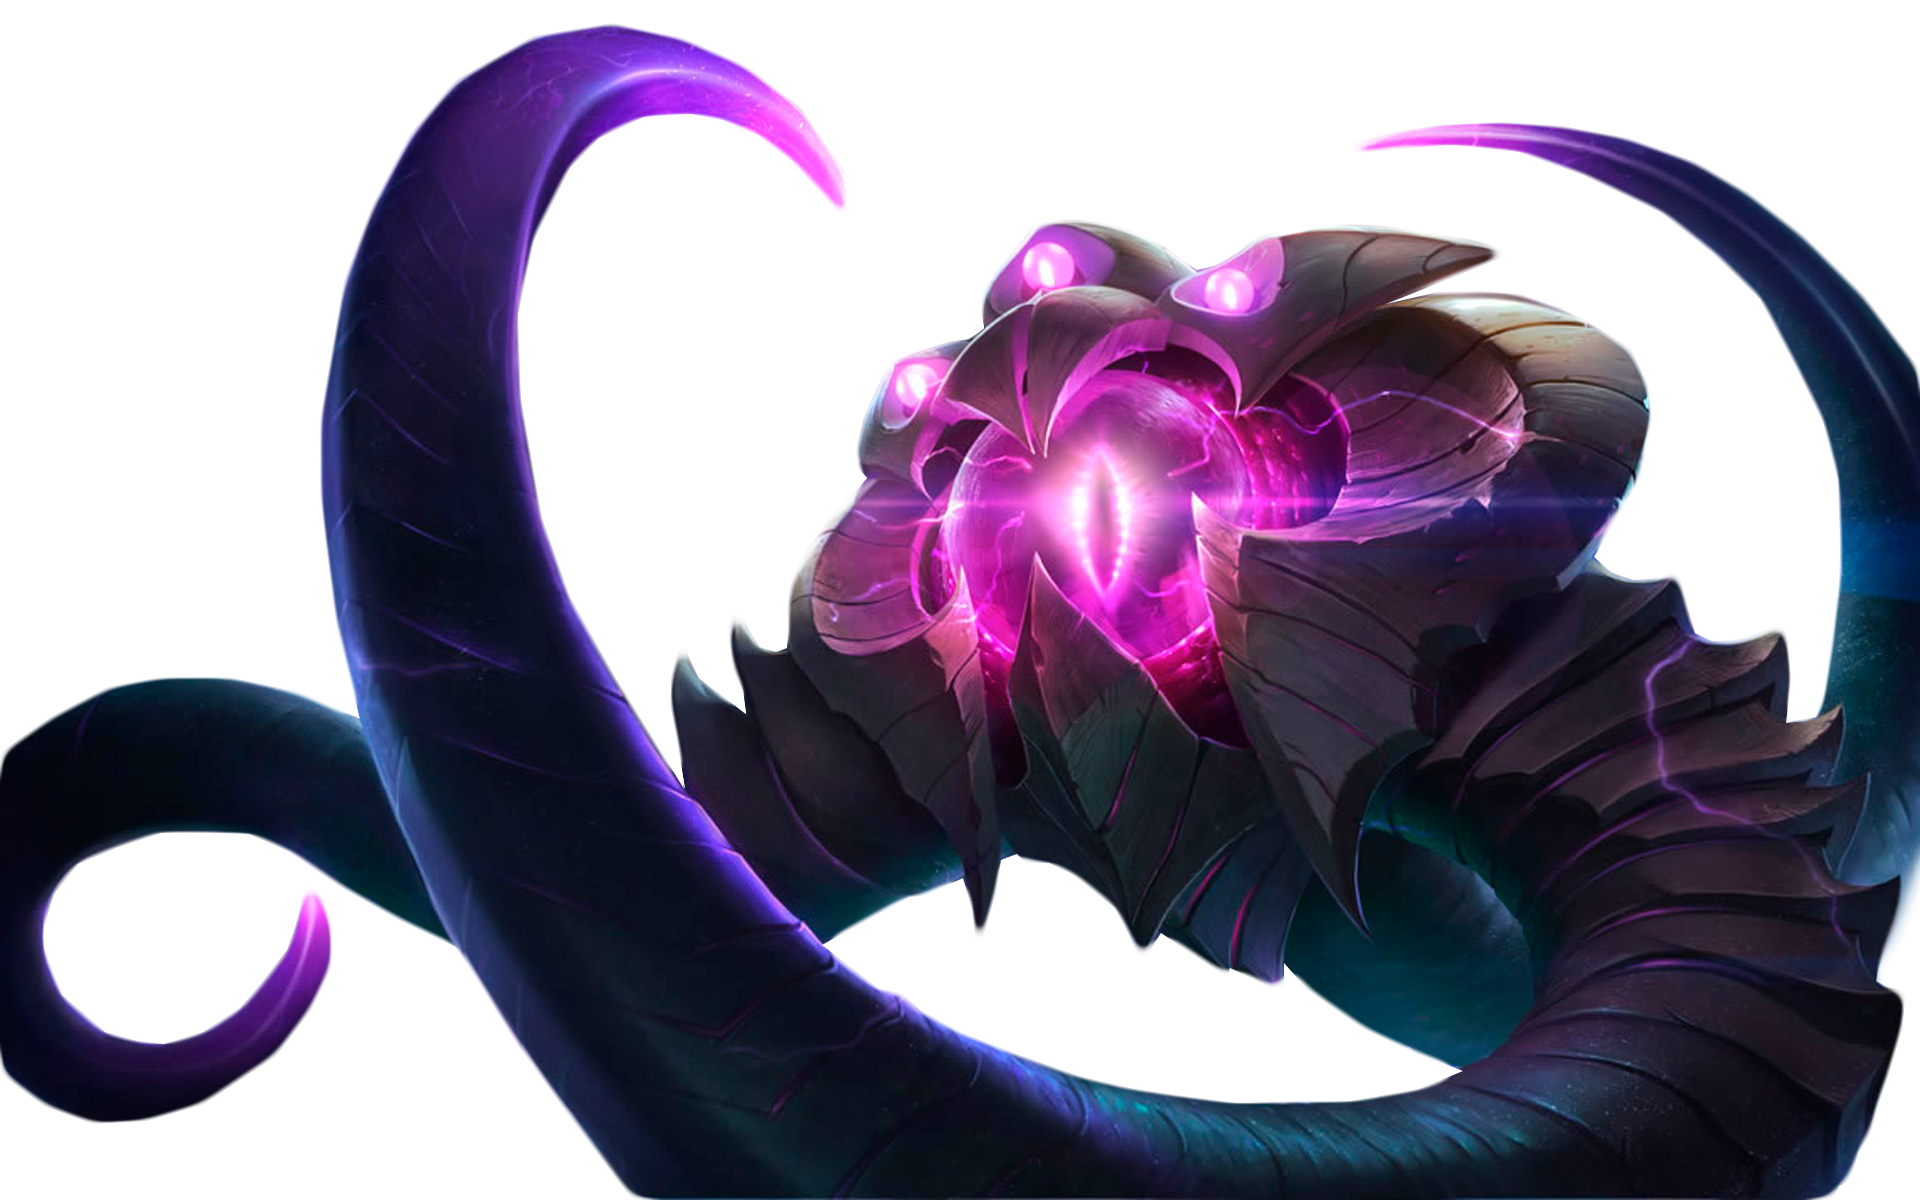
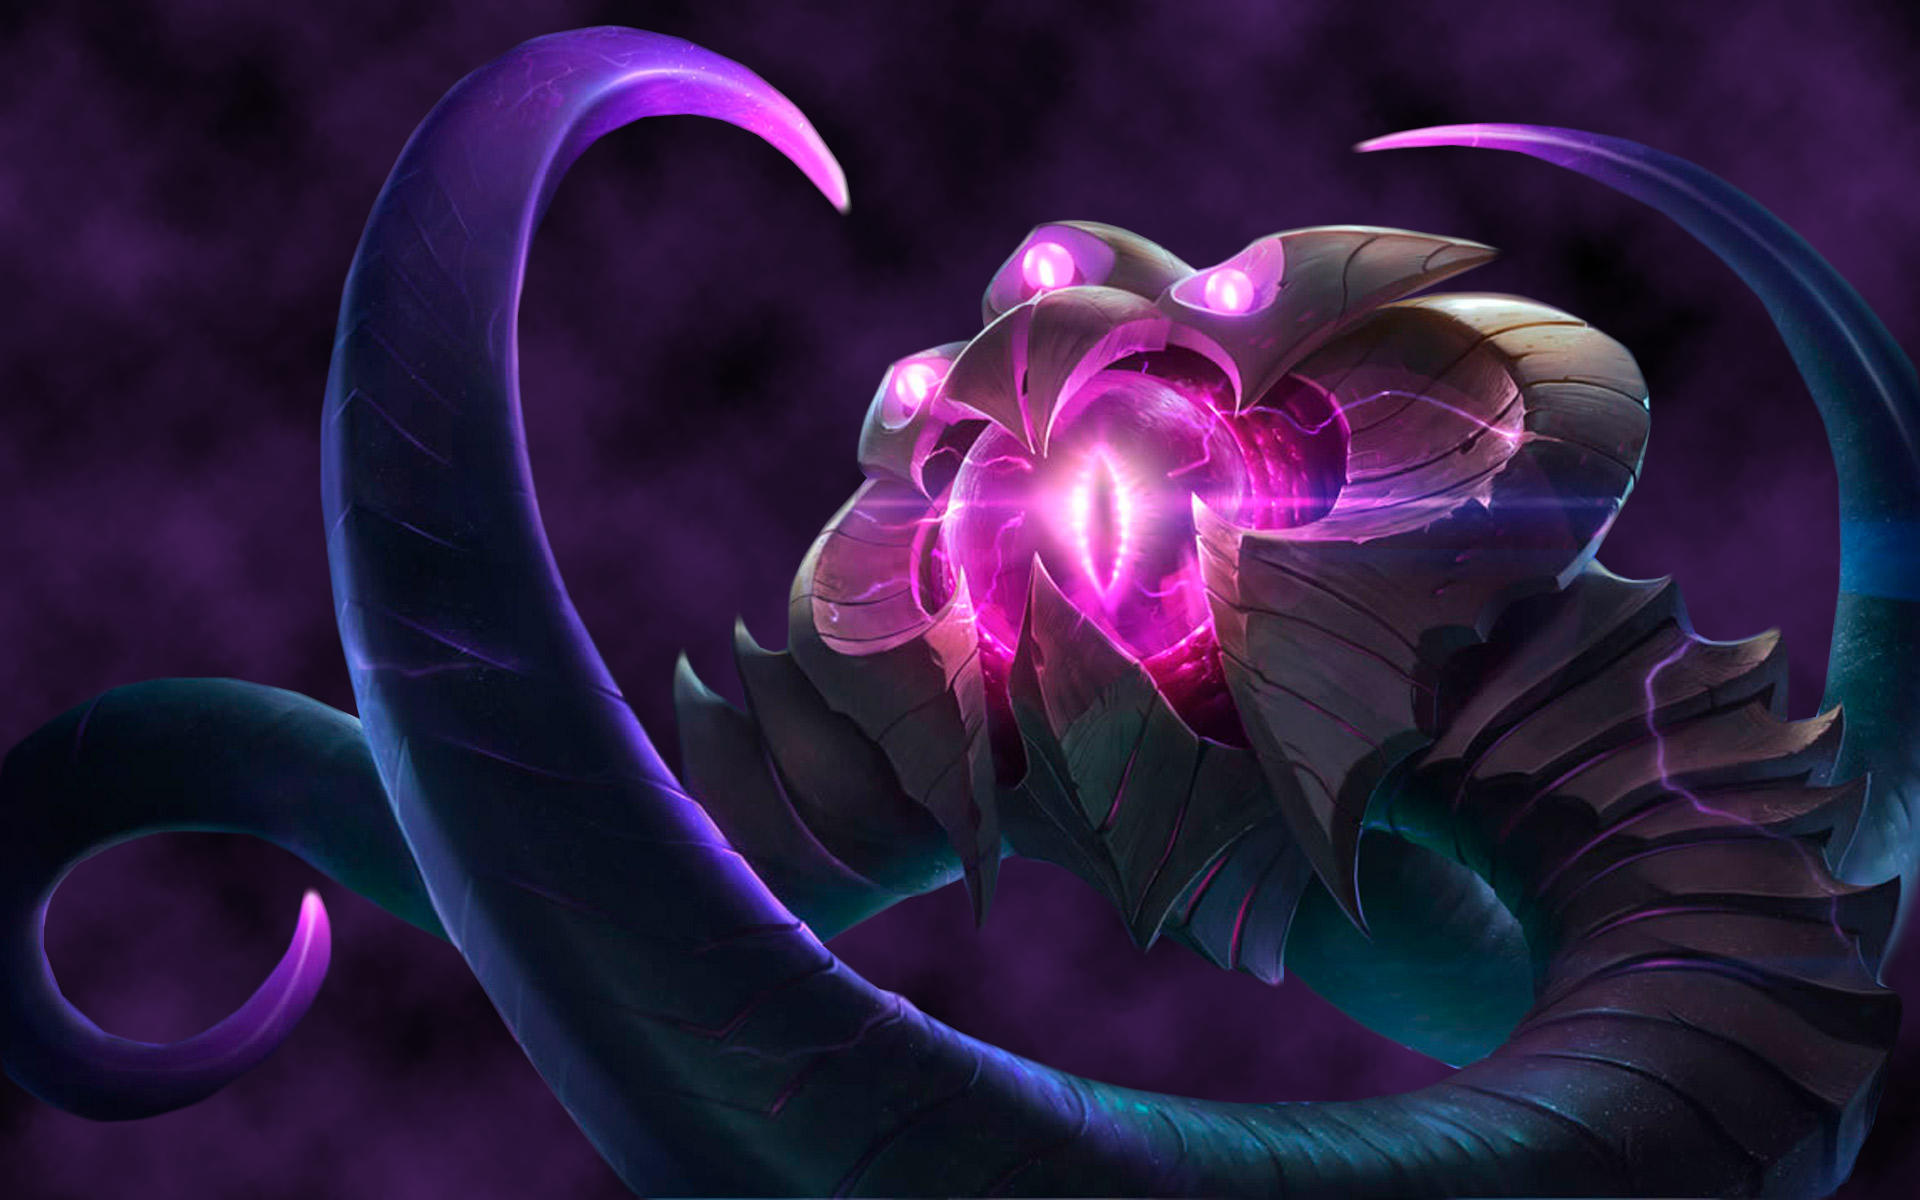
添加了遗物、能力的图标，改善了角色选择界面的背景

diff --git a/src/main/java/velKoz/powers/OrganicDeconstructionPower.java b/src/main/java/velKoz/powers/OrganicDeconstructionPower.java
@@ -12,11 +12,11 @@ import velKoz.util.TextureLoader;
 
 import static velKoz.VelKozMod.makePowerPath;
 
-public class VoidInsightPower extends AbstractPower implements CloneablePowerInterface {
+public class OrganicDeconstructionPower extends AbstractPower implements CloneablePowerInterface {
 
     public AbstractCreature source;
 
-    public static final String POWER_ID = VelKozMod.makeID("VoidInsightPower");
+    public static final String POWER_ID = VelKozMod.makeID("OrganicDeconstructionPower");
     private static final PowerStrings powerStrings = CardCrawlGame.languagePack.getPowerStrings(POWER_ID);
     public static final String NAME = powerStrings.NAME;
     public static final String[] DESCRIPTIONS = powerStrings.DESCRIPTIONS;
@@ -27,10 +27,10 @@ public class VoidInsightPower extends AbstractPower implements CloneablePowerInt
 
     // We create 2 new textures *Using This Specific Texture Loader* - an 84x84 image and a 32x32 one.
     // There's a fallback "missing texture" image, so the game shouldn't crash if you accidentally put a non-existent file.
-    private static final Texture tex84 = TextureLoader.getTexture(makePowerPath("placeholder_power84.png"));
-    private static final Texture tex32 = TextureLoader.getTexture(makePowerPath("placeholder_power32.png"));
+    private static final Texture tex84 = TextureLoader.getTexture(makePowerPath("organic_deconstruction_power84.png"));
+    private static final Texture tex32 = TextureLoader.getTexture(makePowerPath("organic_deconstruction_power32.png"));
 
-    public VoidInsightPower(final AbstractCreature owner, final AbstractCreature source, final int amount, final int stacksToAdd, final int stacksLimit) {
+    public OrganicDeconstructionPower(final AbstractCreature owner, final AbstractCreature source, final int amount, final int stacksToAdd, final int stacksLimit) {
         name = NAME;
         ID = POWER_ID;
 
@@ -62,6 +62,6 @@ public class VoidInsightPower extends AbstractPower implements CloneablePowerInt
 
     @Override
     public AbstractPower makeCopy() {
-        return new VoidInsightPower(owner, source, stacksToAdd, stacksLimit, amount);
+        return new OrganicDeconstructionPower(owner, source, stacksToAdd, stacksLimit, amount);
     }
 }

diff --git a/src/main/java/velKoz/relics/VoidInsightRelic.java b/src/main/java/velKoz/relics/VoidInsightRelic.java
@@ -8,13 +8,13 @@ import com.megacrit.cardcrawl.dungeons.AbstractDungeon;
 import com.megacrit.cardcrawl.monsters.AbstractMonster;
 import velKoz.VelKozMod;
 import velKoz.powers.DeconstructionPower;
-import velKoz.powers.VoidInsightPower;
+import velKoz.powers.OrganicDeconstructionPower;
 import velKoz.util.TextureLoader;
 
 import static velKoz.VelKozMod.makeRelicOutlinePath;
 import static velKoz.VelKozMod.makeRelicPath;
 
-public class PlaceholderRelic2 extends CustomRelic {
+public class VoidInsightRelic extends CustomRelic {
     /*
      * https://github.com/daviscook477/BaseMod/wiki/Custom-Relics
      *
@@ -22,12 +22,12 @@ public class PlaceholderRelic2 extends CustomRelic {
      */
 
     // ID, images, text.
-    public static final String ID = VelKozMod.makeID("PlaceholderRelic2");
+    public static final String ID = VelKozMod.makeID("VoidInsight");
 
-    private static final Texture IMG = TextureLoader.getTexture(makeRelicPath("placeholder_relic2.png"));
-    private static final Texture OUTLINE = TextureLoader.getTexture(makeRelicOutlinePath("placeholder_relic2.png"));
+    private static final Texture IMG = TextureLoader.getTexture(makeRelicPath("void_insight_relic.png"));
+    private static final Texture OUTLINE = TextureLoader.getTexture(makeRelicOutlinePath("void_insight_relic.png"));
 
-    public PlaceholderRelic2() {
+    public VoidInsightRelic() {
         super(ID, IMG, OUTLINE, RelicTier.COMMON, LandingSound.FLAT);
     }
 
@@ -40,7 +40,7 @@ public class PlaceholderRelic2 extends CustomRelic {
                 new ApplyPowerAction(
                         AbstractDungeon.player, // 应用能力的对象，这里是玩家
                         AbstractDungeon.player, // 能力的来源，也是玩家
-                        new VoidInsightPower(AbstractDungeon.player, AbstractDungeon.player, 15, 1, 3), // 创建一个新的能力实例
+                        new OrganicDeconstructionPower(AbstractDungeon.player, AbstractDungeon.player, 15, 1, 3), // 创建一个新的能力实例
                         15 // 要添加的能力层数
                 )
         );

diff --git a/src/main/java/velKoz/VelKozMod.java b/src/main/java/velKoz/VelKozMod.java
@@ -24,9 +24,7 @@ import velKoz.cards.*;
 import velKoz.events.IdentityCrisisEvent;
 import velKoz.potions.PlaceholderPotion;
 import velKoz.relics.BottledPlaceholderRelic;
-import velKoz.relics.DefaultClickableRelic;
-import velKoz.relics.PlaceholderRelic;
-import velKoz.relics.PlaceholderRelic2;
+import velKoz.relics.VoidInsightRelic;
 import velKoz.util.IDCheckDontTouchPls;
 import velKoz.util.TextureLoader;
 import velKoz.variables.DefaultCustomVariable;
@@ -399,12 +397,13 @@ public class VelKozMod implements
         // in order to automatically differentiate which pool to add the relic too.
 
         // This adds a character specific relic. Only when you play with the mentioned color, will you get this relic.
-        BaseMod.addRelicToCustomPool(new PlaceholderRelic(), velKoz.characters.VelKoz.Enums.COLOR_GRAY);
-        BaseMod.addRelicToCustomPool(new BottledPlaceholderRelic(), velKoz.characters.VelKoz.Enums.COLOR_GRAY);
-        BaseMod.addRelicToCustomPool(new DefaultClickableRelic(), velKoz.characters.VelKoz.Enums.COLOR_GRAY);
+        BaseMod.addRelic(new VoidInsightRelic(), RelicType.SHARED);
+//        BaseMod.addRelicToCustomPool(new PlaceholderRelic(), velKoz.characters.VelKoz.Enums.COLOR_GRAY);
+//        BaseMod.addRelicToCustomPool(new BottledPlaceholderRelic(), velKoz.characters.VelKoz.Enums.COLOR_GRAY);
+//        BaseMod.addRelicToCustomPool(new DefaultClickableRelic(), velKoz.characters.VelKoz.Enums.COLOR_GRAY);
         
         // This adds a relic to the Shared pool. Every character can find this relic.
-        BaseMod.addRelic(new PlaceholderRelic2(), RelicType.SHARED);
+//        BaseMod.addRelic(new TheEyeOfTheVoidRelic(), RelicType.SHARED);
         
         // Mark relics as seen - makes it visible in the compendium immediately
         // If you don't have this it won't be visible in the compendium until you see them in game

diff --git a/src/main/java/velKoz/powers/DeconstructionPower.java b/src/main/java/velKoz/powers/DeconstructionPower.java
@@ -30,8 +30,8 @@ public class DeconstructionPower extends AbstractPower implements CloneablePower
 
     // We create 2 new textures *Using This Specific Texture Loader* - an 84x84 image and a 32x32 one.
     // There's a fallback "missing texture" image, so the game shouldn't crash if you accidentally put a non-existent file.
-    private static final Texture tex84 = TextureLoader.getTexture(makePowerPath("placeholder_power84.png"));
-    private static final Texture tex32 = TextureLoader.getTexture(makePowerPath("placeholder_power32.png"));
+    private static final Texture tex84 = TextureLoader.getTexture(makePowerPath("deconstruction_power84.png"));
+    private static final Texture tex32 = TextureLoader.getTexture(makePowerPath("deconstruction_power32.png"));
 
     public DeconstructionPower(final AbstractCreature owner, final AbstractCreature source, final int amount) {
         name = NAME;
@@ -68,8 +68,8 @@ public class DeconstructionPower extends AbstractPower implements CloneablePower
     // 这个方法用于增加 Deconstruction 层数
     public void addStack(AbstractPlayer p) {
         for (AbstractPower power : p.powers){
-            if (power instanceof VoidInsightPower){
-                VoidInsightPower voidInsightPower = (VoidInsightPower)power;
+            if (power instanceof OrganicDeconstructionPower){
+                OrganicDeconstructionPower voidInsightPower = (OrganicDeconstructionPower)power;
                 int stacksToAdd = voidInsightPower.stacksToAdd;
                 int stacksLimit = voidInsightPower.stacksLimit;
                 int explodeDamage = voidInsightPower.amount;

diff --git a/src/main/java/velKoz/characters/VelKoz.java b/src/main/java/velKoz/characters/VelKoz.java
@@ -23,9 +23,7 @@ import org.apache.logging.log4j.LogManager;
 import org.apache.logging.log4j.Logger;
 import velKoz.VelKozMod;
 import velKoz.cards.*;
-import velKoz.relics.DefaultClickableRelic;
-import velKoz.relics.PlaceholderRelic;
-import velKoz.relics.PlaceholderRelic2;
+import velKoz.relics.VoidInsightRelic;
 
 import java.util.ArrayList;
 
@@ -172,15 +170,13 @@ public class VelKoz extends CustomPlayer {
     public ArrayList<String> getStartingRelics() {
         ArrayList<String> retVal = new ArrayList<>();
 
-        retVal.add(PlaceholderRelic.ID);
-        retVal.add(PlaceholderRelic2.ID);
-        retVal.add(DefaultClickableRelic.ID);
+        retVal.add(VoidInsightRelic.ID);
+
 
         // Mark relics as seen - makes it visible in the compendium immediately
         // If you don't have this it won't be visible in the compendium until you see them in game
-        UnlockTracker.markRelicAsSeen(PlaceholderRelic.ID);
-        UnlockTracker.markRelicAsSeen(PlaceholderRelic2.ID);
-        UnlockTracker.markRelicAsSeen(DefaultClickableRelic.ID);
+        UnlockTracker.markRelicAsSeen(VoidInsightRelic.ID);
+
 
         return retVal;
     }
